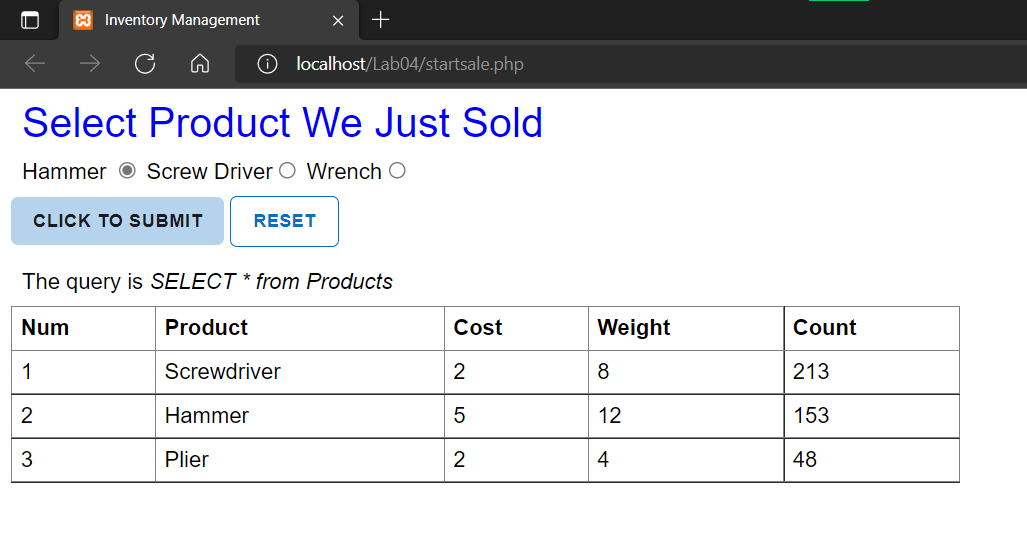
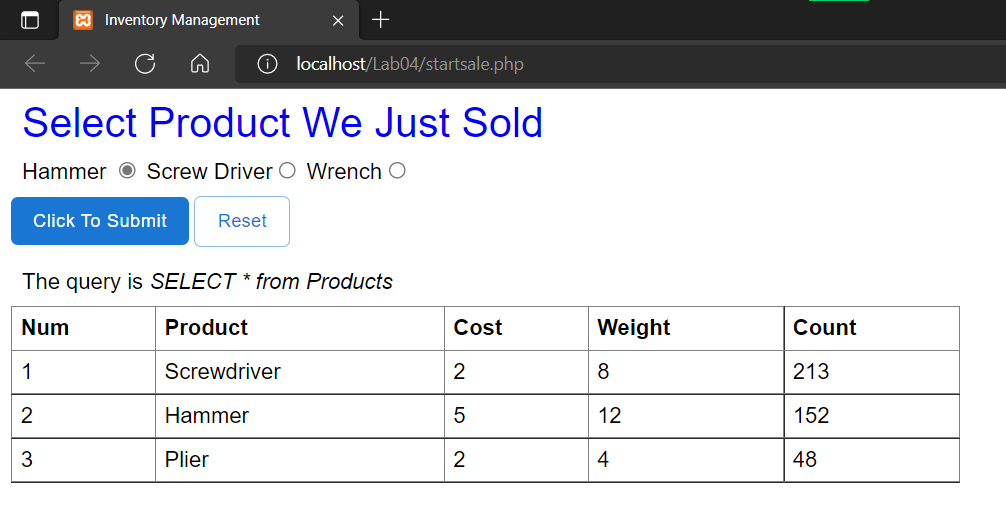
[refactor] refactor css/ replace screenshots

Changed region(s): [[0.0, 0.0, 1.0, 0.9172], [0.0308, 0.9467, 0.9553, 0.9763], [0.0, 0.0, 0.2773, 0.0888]]

diff --git a/Lab 04/4.1/4.1.2/insert.html b/Lab 04/4.1/4.1.2/insert.html
@@ -52,8 +52,8 @@
             padding: 6px 16px;
             cursor: pointer;
             border-radius: 5px;
-            border: 1px solid rgba(10, 110, 194, 1);
-            color: rgba(10, 110, 194, 1);
+            border: 1px solid rgba(25, 118, 210, 0.5);
+            color: #1976d2;
             background-color: transparent;
             font-size: 13px;
             font-weight: 500;
@@ -68,9 +68,8 @@
         }
         
         .outlineButton:hover {
-            color: white;
-            background-color: rgba(10, 110, 194, 0.5);
             transition: 0.7;
+            border: 1px solid rgba(25, 118, 210);
         }
     </style>
 </head>

diff --git a/Lab 04/4.1/4.1.4/search.html b/Lab 04/4.1/4.1.4/search.html
@@ -46,8 +46,8 @@
             padding: 6px 16px;
             cursor: pointer;
             border-radius: 5px;
-            border: 1px solid rgba(10, 110, 194, 1);
-            color: rgba(10, 110, 194, 1);
+            border: 1px solid rgba(25, 118, 210, 0.5);
+            color: #1976d2;
             background-color: transparent;
             font-size: 13px;
             font-weight: 500;
@@ -62,9 +62,8 @@
         }
         
         .outlineButton:hover {
-            color: white;
-            background-color: rgba(10, 110, 194, 0.5);
             transition: 0.7;
+            border: 1px solid rgba(25, 118, 210);
         }
     </style>
 </head>

diff --git a/Lab 04/4.1/4.1.5/startsale.php b/Lab 04/4.1/4.1.5/startsale.php
@@ -40,8 +40,8 @@
             padding: 6px 16px;
             cursor: pointer;
             border-radius: 5px;
-            border: 1px solid rgba(10, 110, 194, 1);
-            color: rgba(10, 110, 194, 1);
+            border: 1px solid rgba(25, 118, 210, 0.5);
+            color: #1976d2;
             background-color: transparent;
             font-size: 13px;
             font-weight: 500;
@@ -56,9 +56,8 @@
         }
         
         .outlineButton:hover {
-            color: white;
-            background-color: rgba(10, 110, 194, 0.5);
             transition: 0.7;
+            border: 1px solid rgba(25, 118, 210);
         }
     </style>
 </head>
